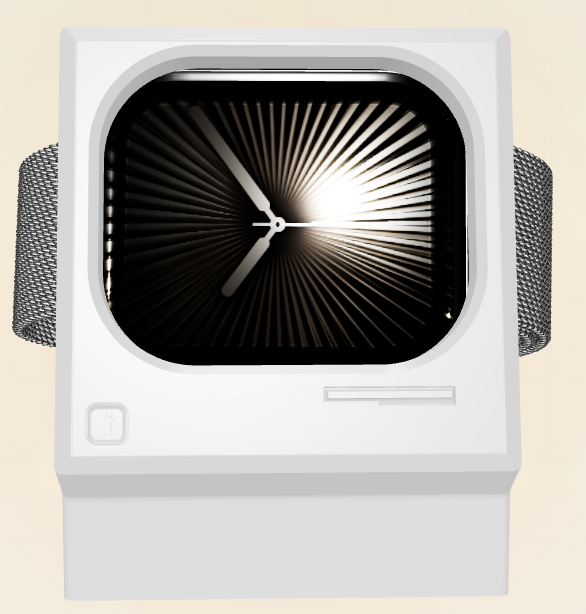
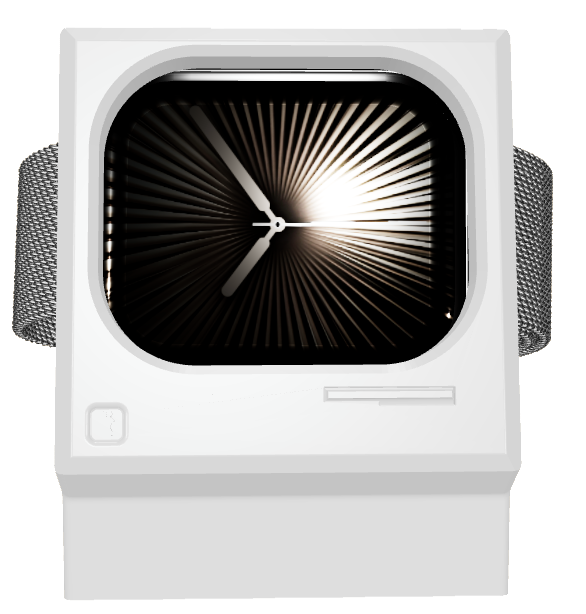
Better image

Changed region(s): [[0.0, 0.0, 1.0, 1.0]]

diff --git a/src/app/products/watchintosh/page.tsx b/src/app/products/watchintosh/page.tsx
@@ -175,38 +175,13 @@ const FeatureIllustration = ({ id }: { id: string }) => {
             {/* Base/desk line */}
             <div className="absolute bottom-0 left-1/2 -translate-x-1/2 w-32 h-0.5 bg-[#d4cdc0]" />
             
-            {/* Angle arc */}
-            <motion.svg
-              width="80"
-              height="60"
-              viewBox="0 0 80 60"
-              className="absolute bottom-0 left-1/2 -translate-x-1/2"
-              initial={{ opacity: 0 }}
-              whileInView={{ opacity: 1 }}
-              viewport={{ once: true }}
-              transition={{ delay: 0.3 }}
-            >
-              <motion.path
-                d="M 40 55 L 40 55 A 30 30 0 0 1 58 20"
-                stroke="#f59e0b"
-                strokeWidth="2"
-                fill="none"
-                strokeDasharray="50"
-                initial={{ strokeDashoffset: 50 }}
-                whileInView={{ strokeDashoffset: 0 }}
-                viewport={{ once: true }}
-                transition={{ delay: 0.5, duration: 0.8 }}
-              />
-            </motion.svg>
-            
             {/* Mini Macintosh */}
             <motion.div
-              initial={{ rotate: 0, opacity: 0 }}
-              whileInView={{ rotate: -15, opacity: 1 }}
+              initial={{ opacity: 0, y: 10 }}
+              whileInView={{ opacity: 1, y: 0 }}
               viewport={{ once: true }}
               transition={{ delay: 0.2, duration: 0.6, ease: [0.22, 1, 0.36, 1] }}
-              className="relative w-16 h-20 origin-bottom"
-              style={{ transformOrigin: 'bottom center' }}
+              className="relative w-16 h-20"
             >
               <div className="absolute inset-0 bg-gradient-to-b from-[#e8e0d0] to-[#d4cdc0] rounded-lg border border-[#c5beb0]">
                 <div className="absolute top-2 left-1.5 right-1.5 h-10 bg-[#1a1a1a] rounded-sm">
@@ -221,17 +196,6 @@ const FeatureIllustration = ({ id }: { id: string }) => {
                   </div>
                 </div>
               </div>
-            </motion.div>
-            
-            {/* Angle label */}
-            <motion.div
-              initial={{ opacity: 0, x: 10 }}
-              whileInView={{ opacity: 1, x: 0 }}
-              viewport={{ once: true }}
-              transition={{ delay: 0.8 }}
-              className="absolute -right-8 top-4 text-amber-600 font-medium text-sm"
-            >
-              15
             </motion.div>
           </div>
         </div>
@@ -892,8 +856,6 @@ export default function WatchintoshProductPage() {
                 </h4>
                 <ul className="text-[#1d1d1f]/60 space-y-1">
                   <li>1x Watchintosh Stand</li>
-                  <li>1x Setup Guide</li>
-                  <li>1x Microfiber Cleaning Cloth</li>
                 </ul>
                 <p className="text-sm text-[#1d1d1f]/40 mt-3 italic">
                   Note: Apple Watch charger not included. Uses your existing

diff --git a/src/context/cart-context.tsx b/src/context/cart-context.tsx
@@ -49,12 +49,12 @@ const PRODUCT_DATA: Record<string, { title: string; price: string; image: string
   "watchintosh": {
     title: "Watchintosh",
     price: "39.00",
-    image: "/models/SCENE.glb",
+    image: "/watchintosh.png",
   },
   "demo-variant-watchintosh": {
     title: "Watchintosh",
     price: "39.00",
-    image: "/models/SCENE.glb",
+    image: "/watchintosh.png",
   },
 };
 
